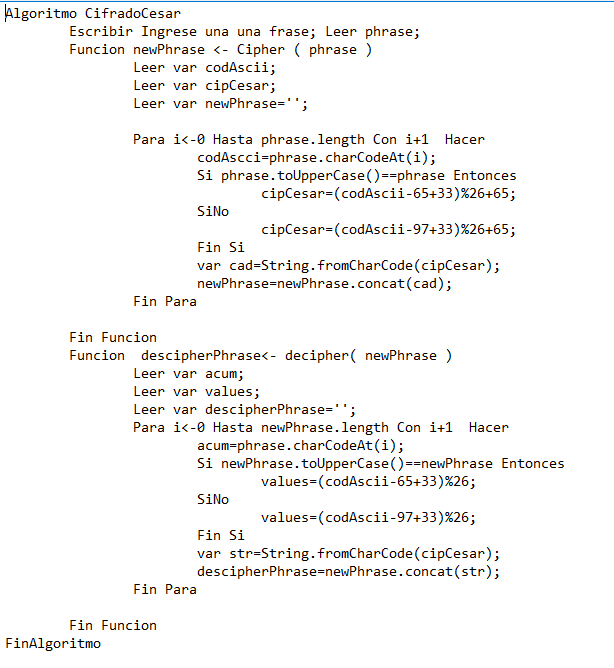
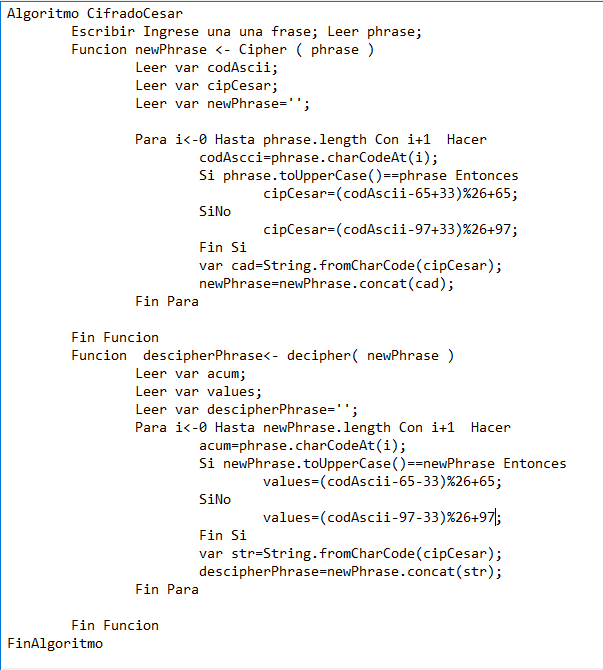
version final

diff --git a/js/app.js b/js/app.js
@@ -24,7 +24,7 @@ var cipher=function(phrase){
      cipCesar=(codAscii-65+33)%26+65;
    }else{
     //Me convierte la letra que tenia en ascii a cifrado de cesar; esta formula se utiliza para las minúsculas
-     cipCesar=(codAscii-97+33)%26+65;
+     cipCesar=(codAscii-97+33)%26+97;
    }
 
    //Convierte el codigo ASCII a una letra
@@ -53,10 +53,10 @@ var decipher=function(newPhrase) {
     //Verifico si la frase ingresada está escrita en mayúscula
     if(newPhrase.toUpperCase()===newPhrase){
       // Me convierte la letra que tenia en ascii a cifrado de cesar; esta formula se utiliza para las mayúsculas
-      valor=(acum-65+33)%26;
+      valor=(acum-65-33)%26+65;
     }else{
       // Me convierte la letra que tenia en ascii a cifrado de cesar; esta formula se utiliza para las minúsculas
-      valor=(acum-97+33)%26;
+      valor=(acum-97-33)%26+97;
     }
 
     //Convierte el codigo ASCII a una letra
